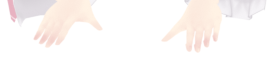
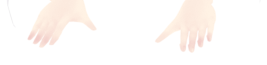
真正修好手穿桌子：按深度切，不是按高度
上一版没修好。我把正对镜头的深度挡板换成了水平的"桌面"挡板，
理由是"桌面是平面，该切多深随行变化"——听着对，实际更糟：
袖子的 z 是 0.655–0.79、手是 0.698–0.756，两者在高度上重叠，
水平面根本切不开。摆低了只去掉 370 个像素（等于没切），
摆高了连手指一起削掉。

三条分界试下来只有一条成立：
- 不是"画面第几行"——袖子和手指落在同样的行上
- 不是"身上哪一段"——袖子和手腕同属小臂那根骨头，剔掉大臂重渲，
  缝线以下的像素 5321 → 5321，一个没少
- 不是高度——见上
- 是深度：袖子 2.5、手 2.39

切在 2.44。拉梯度看出来的：2.48 袖子开始露，2.40 以下开始啃手腕。
四帧全部核过，桌面上只剩手和小臂。

删掉写错的 desk_occluder。清理后重渲和装进去的素材差 0 像素。

diff --git a/Blender/snozzy_lib.py b/Blender/snozzy_lib.py
@@ -335,45 +335,6 @@ def isolate_arms(meshes, sides=("L", "R"), cutoff=0.5):
         m.vertex_group = "_ARMS"
 
 
-def desk_occluder(scene, top_v, height, depth=2.5, width=6.0):
-    """按 2D 桌面的上沿，在 3D 里摆一块**水平**挡板，替 2D 的桌子挡住东西。
-
-    手要画在桌面之上，但只有真的搭在桌面上那一段才该画。她那两只蓬蓬袖挂在
-    肘上、垂到画面 y≈660，而肘在桌沿**后面**——袖子被 2D 的桌板挡着才对，
-    一起画上去就是穿模（看着像小臂插进了桌子）。
-
-    挡板必须是**水平**的，不能是正对镜头的那种：桌面是个平面，
-    它在画面上越往下、深度越近，所以"该切在多深"是随行变化的。
-    用一块固定深度的挡板切，上边切多了、下边切少了，两头都不对。
-
-    位置是**从画面反推**的：桌面只存在于 2D 重绘图里，3D 场景里什么都没有。
-    高度取手腕高度（手搭在桌面上），上沿则由「相机穿过画面第 `top_v` 行的
-    射线打到这个高度」定出来——和 `place_hip`、`screen_point` 一个路数。
-
-    挡板用 Holdout 材质：自己不显影，但遮住背后的东西并把 alpha 写成 0。
-    比走合成器省事得多——Blender 5 把 `scene.node_tree`、
-    `CompositorNodeMapRange`、`OutputFile.base_path` 全改了名字。
-    """
-    cam = scene.camera
-    o = cam.matrix_world.translation
-    f, sw = cam.data.lens, cam.data.sensor_width
-    rx, ry = scene.render.resolution_x, scene.render.resolution_y
-    d = Vector((0.0, (0.5 - top_v) * sw * ry / rx, -f)).normalized()
-    d = cam.matrix_world.to_3x3() @ d
-    back = o + d * ((height - o.z) / d.z)     # 桌面上沿在 3D 里的位置
-
-    mesh = bpy.data.meshes.new("Desk")
-    # 从上沿往镜头方向铺开（她面朝 −Y，所以镜头那边是 y 更小的一侧）
-    mesh.from_pydata([(-width, back.y, height), (width, back.y, height),
-                      (width, back.y - depth, height), (-width, back.y - depth, height)],
-                     [], [(0, 1, 2, 3)])
-    mesh.update()
-    plane = bpy.data.objects.new("Desk", mesh)
-    scene.collection.objects.link(plane)
-    _holdout(plane)
-    return plane
-
-
 def _holdout(obj):
     mat = bpy.data.materials.new("Holdout")
     mat.use_nodes = True
@@ -392,9 +353,16 @@ def depth_clip(scene, dist):
     她那两只蓬蓬袖挂在肘上、实测深度 2.5，手腕是 2.39——袖子在桌沿后面，
     一起画到桌面上就是穿模（看着像小臂插进了桌子）。
 
-    这条分界既不是"画面上哪一行"（袖子和手指落在同样的行上），
-    也不是"身上哪一段"（袖子和手腕同属小臂那根骨头，按骨骼挑分不开），
-    只能按**深度**切。
+    这条分界试错过三轮，前两条都不成立：
+
+    - **不是"画面上哪一行"**——袖子和手指落在同样的行上
+    - **不是"身上哪一段"**——袖子和手腕同属小臂那根骨头，按骨骼挑分不开
+      （实测把大臂剔掉，缝线以下的像素一个没少）
+    - **也不能用水平的"桌面"来切**——袖子的 z 是 0.655–0.79、手是 0.698–0.756，
+      两者在**高度上是重叠的**：摆低了什么都挡不住，摆高了连手一起削掉
+
+    真正的区别在**深度**：袖子挂在肘上（2.5），手伸在前面（2.39）。
+    所以挡板正对镜头、按深度切。
 
     挡板用 Holdout 材质：它自己不显影，但会遮住背后的东西并把 alpha 写成 0。
     比走合成器的深度通道省事得多——Blender 5 的合成器把
@@ -407,14 +375,7 @@ def depth_clip(scene, dist):
     plane = bpy.context.object
     plane.location = cam.matrix_world.translation + fwd * dist
     plane.rotation_euler = cam.rotation_euler
-    mat = bpy.data.materials.new("Holdout")
-    mat.use_nodes = True
-    nt = mat.node_tree
-    nt.nodes.clear()
-    hold = nt.nodes.new("ShaderNodeHoldout")
-    out = nt.nodes.new("ShaderNodeOutputMaterial")
-    nt.links.new(hold.outputs[0], out.inputs["Surface"])
-    plane.data.materials.append(mat)
+    _holdout(plane)
     return plane
 
 

diff --git a/Blender/render_hands.py b/Blender/render_hands.py
@@ -20,9 +20,9 @@ import snozzy_lib as S, pose as P
 VRM, OUT = sys.argv[-2], sys.argv[-1]
 os.makedirs(OUT, exist_ok=True)
 
-# 2D 桌面上沿在画布上的位置（0…1）。实测 desk.png 从 y=602 起满不透明，
-# 602/1024 = 0.588。挡板按这一行反推位置，换了重绘图要重新量。
-DESK_TOP_V = 602 / 1024
+# 切在离相机多远。手腕实测 2.39、肘 2.56，桌沿在两者之间。
+# 这个数是拉梯度看出来的：太大袖子留在桌上（穿模），太小连手腕一起切掉。
+CUT_DEPTH = float(os.environ.get("CUT_DEPTH", 2.44))
 
 from bpy_extras.object_utils import world_to_camera_view
 
@@ -37,22 +37,18 @@ for i, (press, first) in enumerate(P.TYPING_FRAMES):
     P.settle(scene, arm, press=press, side_first=first)
     S.isolate_arms(meshes)          # 只留手臂，别的顶点遮掉
 
-    # 摆一块和 2D 桌面对齐的水平挡板，替桌子挡住袖子和肘。
+    # 按**深度**切掉桌沿后面那一段手臂。
     #
-    # 桌面高度要按**指尖**取，不是手腕：手腕比指尖高五公分，照手腕摆挡板
-    # 会把手指整个削掉（试过，只剩指尖尖还露在键上）。指尖才是碰到键的那一层。
-    tips = [(arm.matrix_world @ arm.pose.bones[f"J_Bip_{s}_{f}3"].head).z
-            for s in ("L", "R")
-            for f in ("Index", "Middle", "Ring", "Little")
-            if f"J_Bip_{s}_{f}3" in arm.pose.bones]
-    z = min(tips) - 0.015
-    S.desk_occluder(scene, DESK_TOP_V, z)
-    cut = z
+    # 不能用水平挡板（"桌面"）来切：袖子的 z 是 0.655–0.79、手是 0.698–0.756，
+    # **两者在高度上是重叠的**，水平面切不开——摆低了什么都挡不住，
+    # 摆高了连手一起削掉。它们真正的区别在深度：袖子挂在肘上（2.5），
+    # 手伸在前面（2.39）。所以挡板要正对镜头，按深度切。
+    S.depth_clip(scene, CUT_DEPTH)
 
     scene.render.filepath = os.path.join(OUT, f"hand_{i:02d}.png")
     bpy.ops.render.render(write_still=True)
-    print(f"HAND {i:02d} press={press} first={first}  桌面高度 {z:.3f}")
+    print(f"HAND {i:02d} press={press} first={first}  切深度 {CUT_DEPTH}")
 
 with open(os.path.join(OUT, "hands_meta.json"), "w") as f:
-    json.dump({"frames": len(P.TYPING_FRAMES), "desk_height": cut}, f, indent=2)
+    json.dump({"frames": len(P.TYPING_FRAMES), "cut_depth": CUT_DEPTH}, f, indent=2)
 print(f"HAND 共 {len(P.TYPING_FRAMES)} 帧")

diff --git a/HANDOFF.md b/HANDOFF.md
@@ -117,8 +117,9 @@ Blender 在 `/Applications/Blender.app/Contents/MacOS/Blender`（5.2 LTS）。
 把「坐姿 → 落位 → 摆手」的顺序固定下来（顺序错了手会偏，见第 27 条）。
 
 **只裁"画面某一行以下"会穿模**：袖子挂在肘上、垂得比桌沿低，但肘在桌沿
-后面。所以渲这一层时要在 3D 里摆一块水平的 Holdout 挡板替 2D 的桌子挡住
-（`snozzy_lib.desk_occluder`，高度按指尖取），见第 29 条。
+后面。渲这一层时要在 3D 里摆一块正对镜头的 Holdout 挡板按**深度**切掉
+桌沿后面那一段（`snozzy_lib.depth_clip`，切在 2.44）。
+高度和骨骼都分不开袖子和手，只有深度可以——见第 29 条。
 
 手**一直搭在键盘上**，工作时才动起来。让手时有时无就得给手臂也做过渡帧，
 而手臂在缝线以上、要连带换掉共用的上半身那张图，代价比这个功能本身大。
@@ -317,20 +318,25 @@ y=267 的头顶，腿根本影响不到那里。判据要改成**按阈值二值
 手指会往前伸出去一截、挂到键盘前沿外面，看着像两只手悬在桌子外。
 手腕要抬到键盘**后沿**（0.586），指尖才落在键上。
 
-**29. 手画到桌面上会穿模，得在 3D 里补一块桌子挡住。** 只按"画面第几行以下
-画到桌面上"来切是不够的：她那两只蓬蓬袖挂在肘上、垂到画面 y≈660，
-而肘在桌沿**后面**（深度 2.55，手腕才 2.39）——袖子跟着画上去，
-看着就是小臂插进了桌板。
+**29. 手画到桌面上会穿模，只能按深度切。** 她那两只蓬蓬袖挂在肘上、
+垂到画面 y≈660，而肘在桌沿**后面**（深度 2.55，手腕才 2.39）——
+袖子跟着画上去，看着就是小臂插进了桌板。
 
-这条分界**既不是画面上哪一行**（袖子和手指落在同样的行上），
-**也不是身上哪一段**（袖子和手腕同属小臂那根骨头，按骨骼挑分不开），
-只能按几何切。做法是在 3D 里摆一块 Holdout 材质的挡板
-（`snozzy_lib.desk_occluder`），位置从 2D 桌面上沿反推。
+这条分界**试错了三轮，前两条都不成立**：
 
-挡板必须**水平**，不能正对镜头：桌面是个平面，画面越往下深度越近，
-"该切在多深"随行变化。用一块固定深度的挡板切，上边切多了下边切少了。
-高度要按**指尖**取，不是手腕——手腕比指尖高五公分，照手腕摆会把手指整个削掉
-（试过，只剩指尖还露在键上）。
+- **不是"画面上哪一行"**——袖子和手指落在同样的行上
+- **不是"身上哪一段"**——袖子和手腕同属小臂那根骨头，按骨骼挑分不开
+  （把大臂剔掉重渲，缝线以下的像素一个没少，5321 → 5321）
+- **也不能用水平的"桌面"来切**——袖子的 z 是 0.655–0.79、手是 0.698–0.756，
+  两者在**高度上重叠**：摆低了什么都挡不住（只去掉 370 个像素），
+  摆高了连手指一起削掉（只剩指尖露在键上）
+
+真正的区别在**深度**：袖子在 2.5，手在 2.39。所以挡板正对镜头按深度切
+（`snozzy_lib.depth_clip`，切在 2.44）。拉梯度看出来的：
+2.48 袖子开始露出来，2.40 以下开始啃手腕。
+
+**我在这条上绕了一圈**：先做对了（正对镜头的深度挡板），又"推理"成水平桌面，
+反而更糟。教训是——这种几何问题**不要靠推理，渲一张把挡板涂红了看它在哪**。
 
 **30. `aim` 管不了绕自身轴的旋转。** 相机在她左前方，两只手用同一套方向摆出来，
 右手正好侧对镜头，看着像一根手指戳下去而不是一只手。
